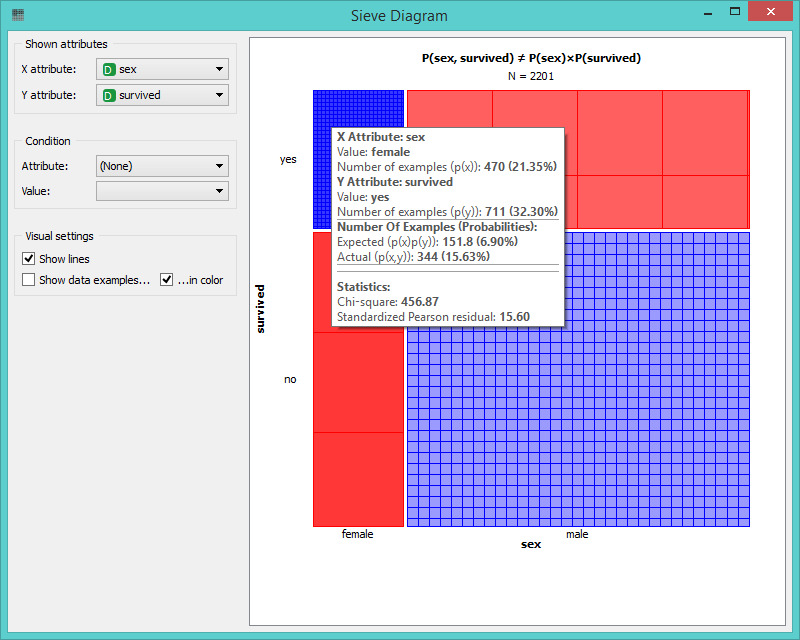
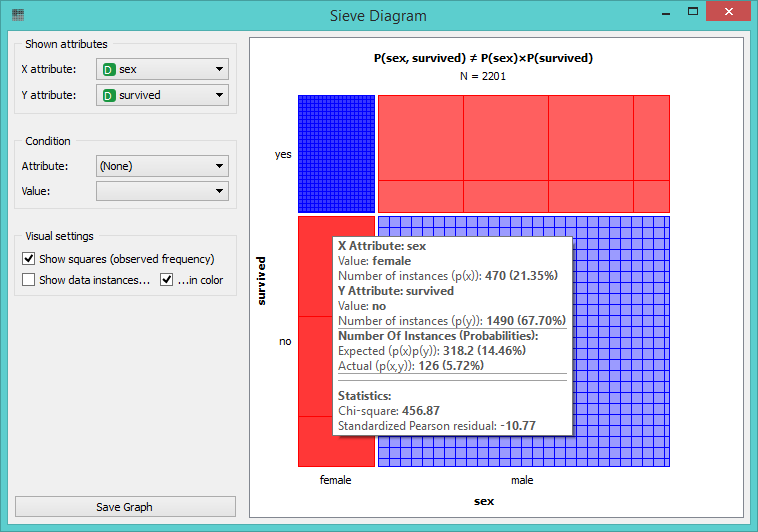
sievediagram: Update documentation

diff --git a/doc/widgets/visualize/sievediagram.md b/doc/widgets/visualize/sievediagram.md
@@ -22,8 +22,9 @@ Description
 -----------
 
 **Sieve diagram** is a graphical method for visualizing frequencies in
-a two-way contingency table and comparing them to the expected
-frequencies under assumption of independence. The sieve diagram was
+a two-way contingency table and comparing them to the [expected
+frequencies](http://cnx.org/contents/d396c4ad-2fd7-47cd-be84-152b44880feb@2/What-is-an-expected-frequency)
+under assumption of independence. The sieve diagram was
 proposed by Riedwyl and Schüpbach in a technical report in 1983 and
 later called a parquet diagram (Riedwyl and Schüpbach, 1994). In this display the
 area of each rectangle is proportional to the expected frequency, while the
@@ -32,6 +33,16 @@ The difference between observed and expected frequency (proportional to
 the standard Pearson residual) appears as the density of shading, using
 color to indicate whether the deviation from independence is positive
 (blue) or negative (red).
+
+![image](images/SieveDiagram-stamped.png)
+
+1. Select the attributes you want to display in the sieve plot.
+2. Select an additional condition for the plot. This will show the selected two attributes only for the defined condition (e.g. attribute = survived, value = no).
+3. Visual settings for your plot.
+    - *Show squares (observed frequency)* displays horizontal and vertical lines representing observed frequency.
+    - *Show data instances...* displayes dots in the plot that represent instances.
+    - *...in color* adds the corresponding color to the dots.
+4. *Save graph* saves the graph to your computer in a .svg or .png format.
 
 The snapshot below shows a sieve diagram for *Titanic* data set and has
 attributes *sex* and *survived* (the latter is a class attribute in
@@ -49,6 +60,16 @@ indeed the one we show in the above snapshot. For contrast, a sieve
 diagram of the least interesting pair (age vs. survival) is shown below.
 
 ![image](images/SieveDiagram-Titanic-age-survived.png)
+
+Example
+-------
+
+Below we see a simple schema using a *Titanic* data set, where we use **Rank** widget to select the best attributes 
+(the ones with the highest information gain, gain ratio or gini index) and feed them into **Sieve Diagram**. This
+displays the sieve plot for the two best attributes, which in our case are sex and status. We see that the survival rate
+on Titanic was very high for women of the first class and very low for female crew members. 
+
+<img src="images/SieveDiagram-Example.png" alt="image" width="600">
 
 References
 ----------
